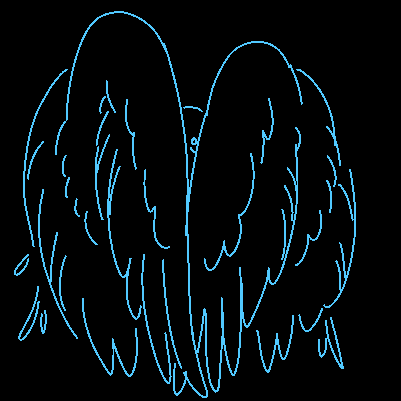
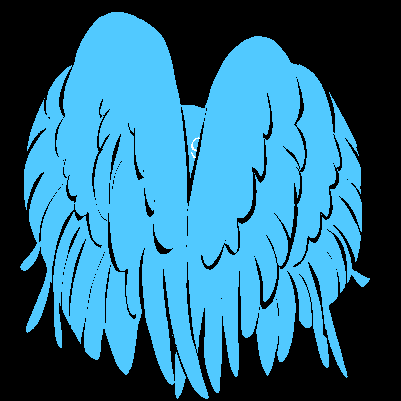
somemore images

diff --git a/lot/38_smoke.html b/lot/38_smoke.html
@@ -12,7 +12,7 @@
 </head>
 <body>
     <div class="content">
-        <img class="image" id="38" src="38_sketch.png" title="" alt="" style="width:100%;max-width:800px;height:auto;display:block;margin-left:auto;margin-right:auto;">
+        <img class="image" id="38" src="38.png" title="" alt="" style="width:100%;max-width:800px;height:auto;display:block;margin-left:auto;margin-right:auto;">
         <div class="serverlog" style="margin-left:40%;width:40%">
             <p class="orange">Orange35711: these guys are tough</p>
             <p class="mercury">MmercuryDroplett: Average gnarled oak swarm.</p>
